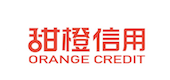
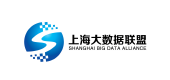
add bigdataalliance

Changed region(s): [[0.1176, 0.275, 0.8824, 0.8]]

diff --git a/index.html b/index.html
@@ -322,14 +322,23 @@
 
                 <div class="row trans-all">
                     <div class="col-md-2  col-md-offset-5 col-sm-6">
-                        <div class="sp-52">苏打数据
+                        <div class="sp-52">苏打数据</div>
                     </div>
                     
+                </div>
+
+                <h3 class="trans">协办单位</h3>
+                
+
+                <div class="row trans-all">
+                    <div class="col-md-2  col-md-offset-5 col-sm-6">
+                        <div class="sp-3">上海大数据联盟</div>
+                    </div> 
                 </div>
             </div>
 
     
-        </div>
+        
 
          <div class="sp-block">
 
